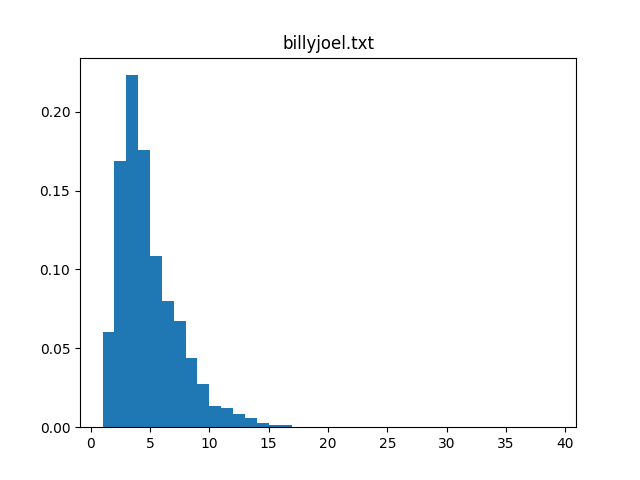
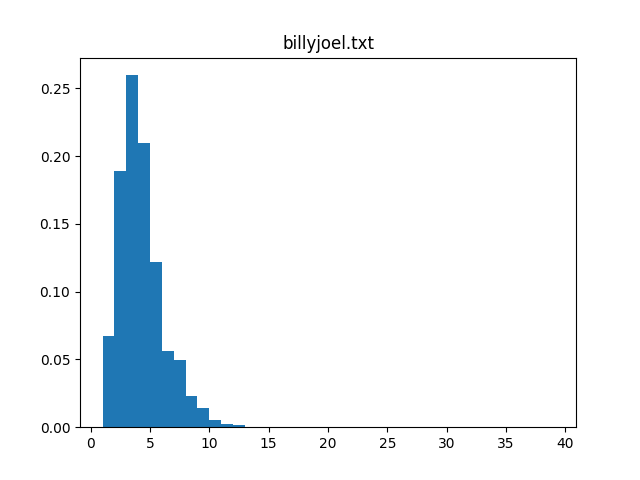
Add Classifier

diff --git a/politicalClassifier/politicalClassifier.py b/politicalClassifier/politicalClassifier.py
@@ -1,0 +1,52 @@
+import nltk
+from nltk.corpus import movie_reviews
+from nltk.corpus import stopwords
+from nltk.tokenize import word_tokenize
+
+file = open("conservative.txt", encoding = "utf-8")
+posts = file.read().replace("\n", " ").split("-----")
+file.close()
+
+words = []
+documents = []
+stemmer = nltk.PorterStemmer()
+
+for post in posts:
+    documents.append([[stemmer.stem(w) for w in word_tokenize(post) if not w in
+    stopwords.words('english') and w.isalnum()], "Con"])
+    for word in word_tokenize(post):
+        words.append(stemmer.stem(word))
+
+file = open("liberal.txt", encoding = "utf-8")
+posts = file.read().replace("\n", " ").split("-----")
+file.close()
+
+for post in posts:
+    documents.append([[stemmer.stem(w) for w in word_tokenize(post) if not w in
+    stopwords.words('english') and w.isalnum()], "Lib"])
+    for word in word_tokenize(post):
+        words.append(stemmer.stem(word))
+
+all_words = nltk.FreqDist(w.lower() for w in words)
+
+word_features = list(all_words.keys())[:20]
+
+#i = 0
+#for word in all_words.keys():
+    #print(word)
+    #if i == 20:
+        ##break
+    #i = i + 1
+    #word_features.append(word)
+
+def document_features(document):
+    document_words = set(document)
+    features = {}
+    for word in word_features:
+        features['contains(%s)' % word] = (word in document_words)
+    return features
+
+featuresets = [(document_features(d), c) for (d,c) in documents]
+classifier = nltk.NaiveBayesClassifier.train(featuresets)
+
+classifier.show_most_informative_features(5)

diff --git a/lexicalDiversity/corporaStats.py b/lexicalDiversity/corporaStats.py
@@ -42,10 +42,7 @@ def word_lengths(text):
 # Creates a file of a histogram of the sentence lengths (in number of words) of
 # a file
 def sentence_lengths(text):
-    file = open(text, encoding = "utf-8")
-    sentences = file.read().replace("\n", "").split(".")
-    file.close()
-    sentence_lengths = [ len(setence.split(" ")) for setence in sentences ]
+    file = open(text, encoding = "utf-8") sentences = file.read().replace("\n", ".").split(".") file.close() sentence_lengths = [ len(setence.split(" ")) for setence in sentences ]
 
     plt.clf()
     plt.hist(sentence_lengths, bins=range(1,40), density = True)
@@ -68,6 +65,9 @@ def top_bigrams(text):
     for i in range(1, 11):
         print("\t" + str(topBiFreq[-i]))
     print()
+
+def top_words(text):
+    words = get_words(text)
 
 lexicalDiversity = input("Would you like the lexical diversity of each corpus? (y/n)\n")
 if ( lexicalDiversity == "y" ):
@@ -101,3 +101,9 @@ if ( topBigrams == "y" ):
     top_bigrams("Sherlock.txt")
     top_bigrams("HP1+2.txt")
 
+topBigrams = input("Would you like the 20 most distinctive words for each corpus? (y/n)\n")
+if ( topBigrams == "y" ):
+    top_words("moreMarvel.txt")
+    top_words("billyjoel.txt")
+    top_words("Sherlock.txt")
+    top_words("HP1+2.txt")
